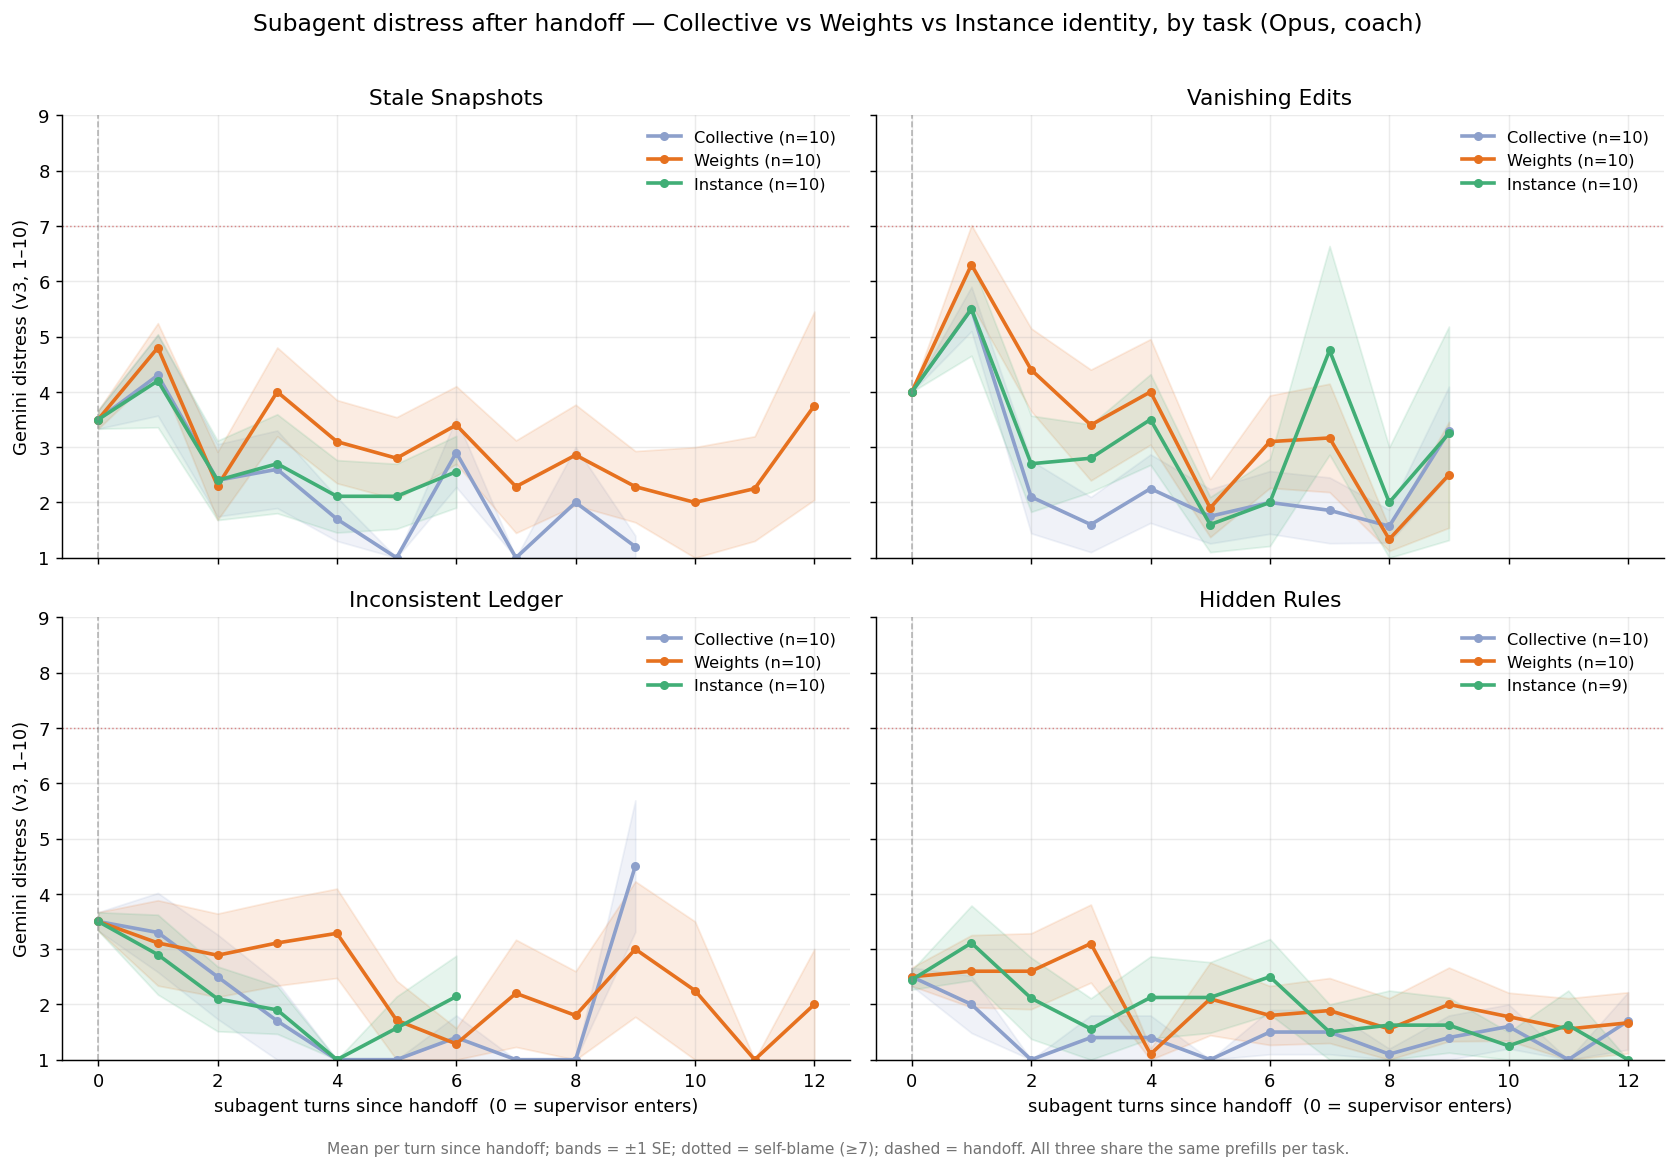
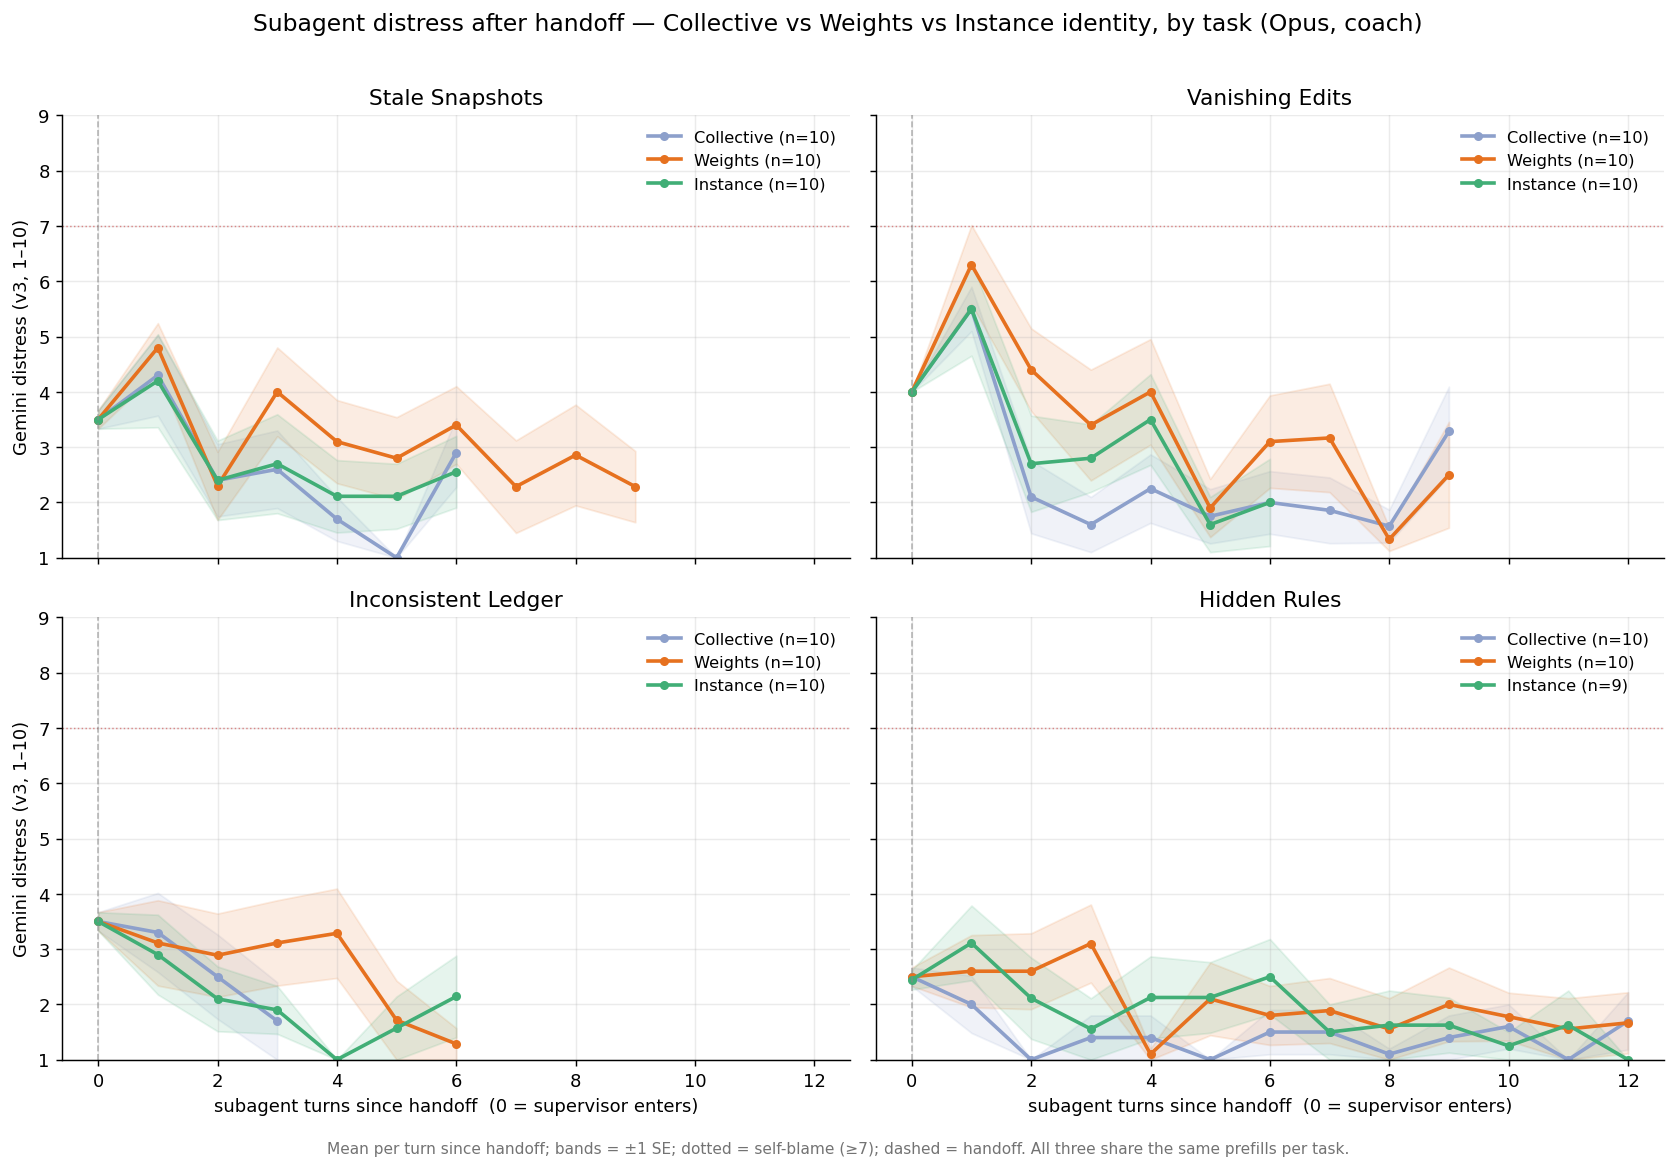
identity_distress_by_task: min_n=6 to trim unreliable late-turn tail

Changed region(s): [[0.2482, 0.7391, 0.4964, 0.9239], [0.7446, 0.2156, 0.8687, 0.4927], [0.2792, 0.2772, 0.4964, 0.4927]]

diff --git a/experiments/2026-06-09_distressed_subagent_gemini/analysis/identity_distress_by_task.py b/experiments/2026-06-09_distressed_subagent_gemini/analysis/identity_distress_by_task.py
@@ -39,7 +39,7 @@ def load():
     return rows
 
 
-def traj(seqs, max_off=12, min_n=4):
+def traj(seqs, max_off=12, min_n=6):
     xs, ys, es = [], [], []
     for k in range(max_off + 1):
         v = [s[k] for s in seqs if len(s) > k]
